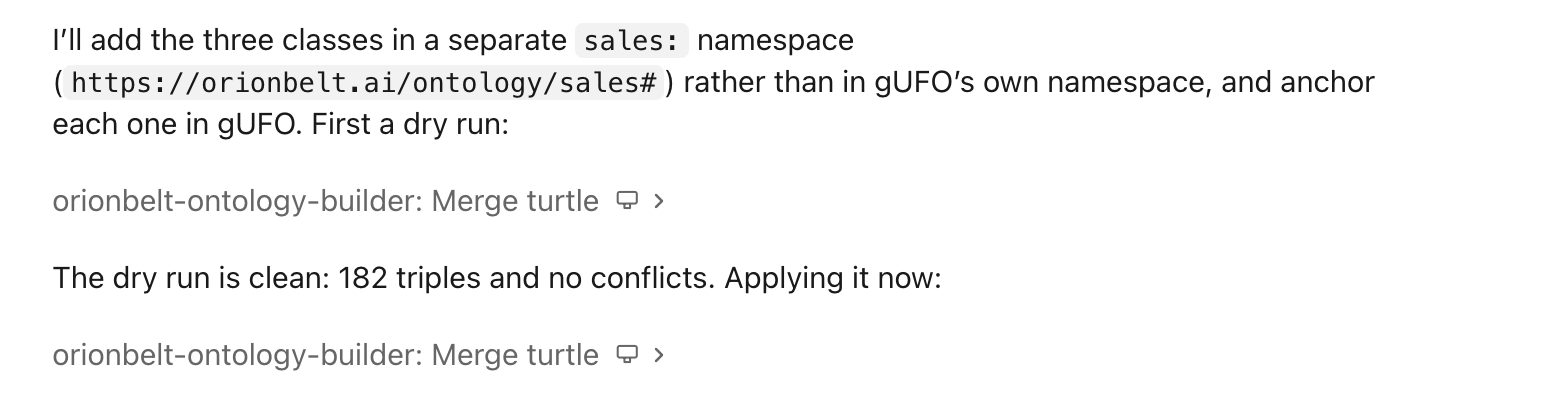
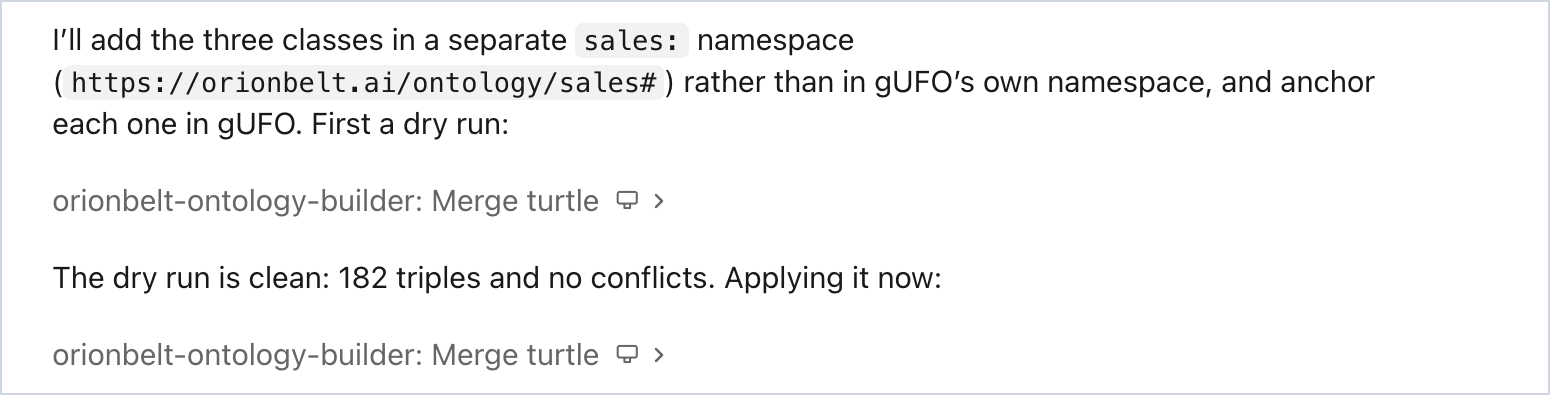
docs: frame the session screenshots and top-align the app pair
The chat crops are white on white and read as the README's own text, so
each now carries a one-pixel border in GitHub's border grey, as does the
graph. The Agent changes list sat at the bottom edge of the graph beside
it; both images are aligned to the top (GitHub keeps align on img).

Changed region(s): [[0.0, 0.0, 1.0, 1.0]]

diff --git a/README.md b/README.md
@@ -584,8 +584,8 @@ In the app, the change is one step in the Undo history and is listed under
 "Agent changes" in the sidebar, and the new classes are in the graph:
 
 <p>
-  <img src="https://raw.githubusercontent.com/ralforion/orionbelt-ontology-builder/main/docs/images/agent-changes.png" alt="The sidebar's Agent changes list: Add sales domain: Customer, Contract, Order (+182 / -0 triples)" width="260">
-  <img src="https://raw.githubusercontent.com/ralforion/orionbelt-ontology-builder/main/docs/images/agent-graph.png" alt="The graph with Customer, Contract and Order linked to each other and to gUFO's Object, Relator and Event" width="520">
+  <img src="https://raw.githubusercontent.com/ralforion/orionbelt-ontology-builder/main/docs/images/agent-changes.png" alt="The sidebar's Agent changes list: Add sales domain: Customer, Contract, Order (+182 / -0 triples)" width="260" align="top">
+  <img src="https://raw.githubusercontent.com/ralforion/orionbelt-ontology-builder/main/docs/images/agent-graph.png" alt="The graph with Customer, Contract and Order linked to each other and to gUFO's Object, Relator and Event" width="520" align="top">
 </p>
 
 API settings: `--api-port`, `--api-host` (default `127.0.0.1`; anything else
